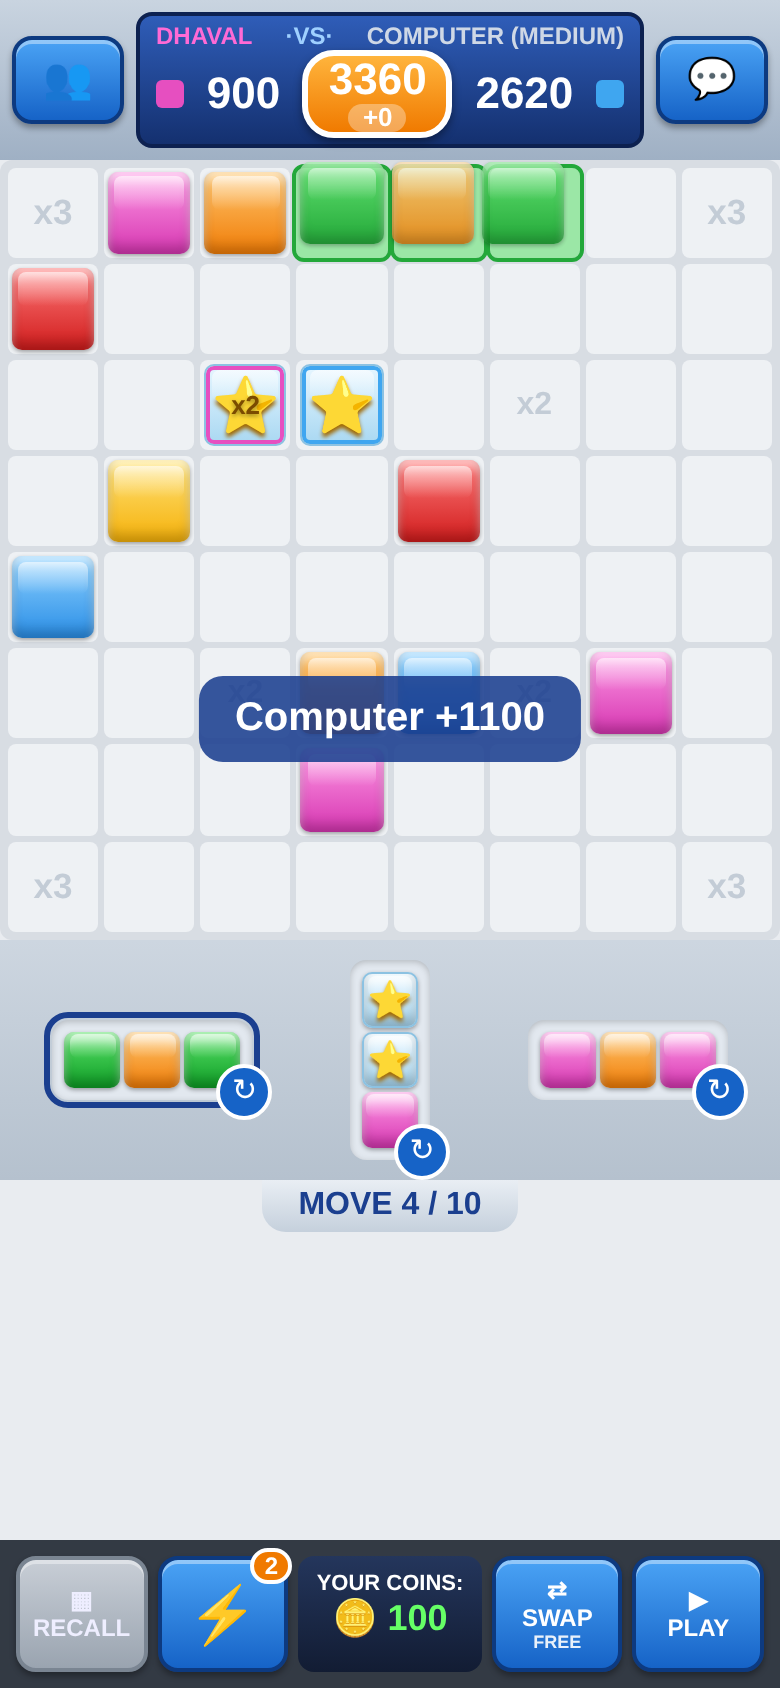
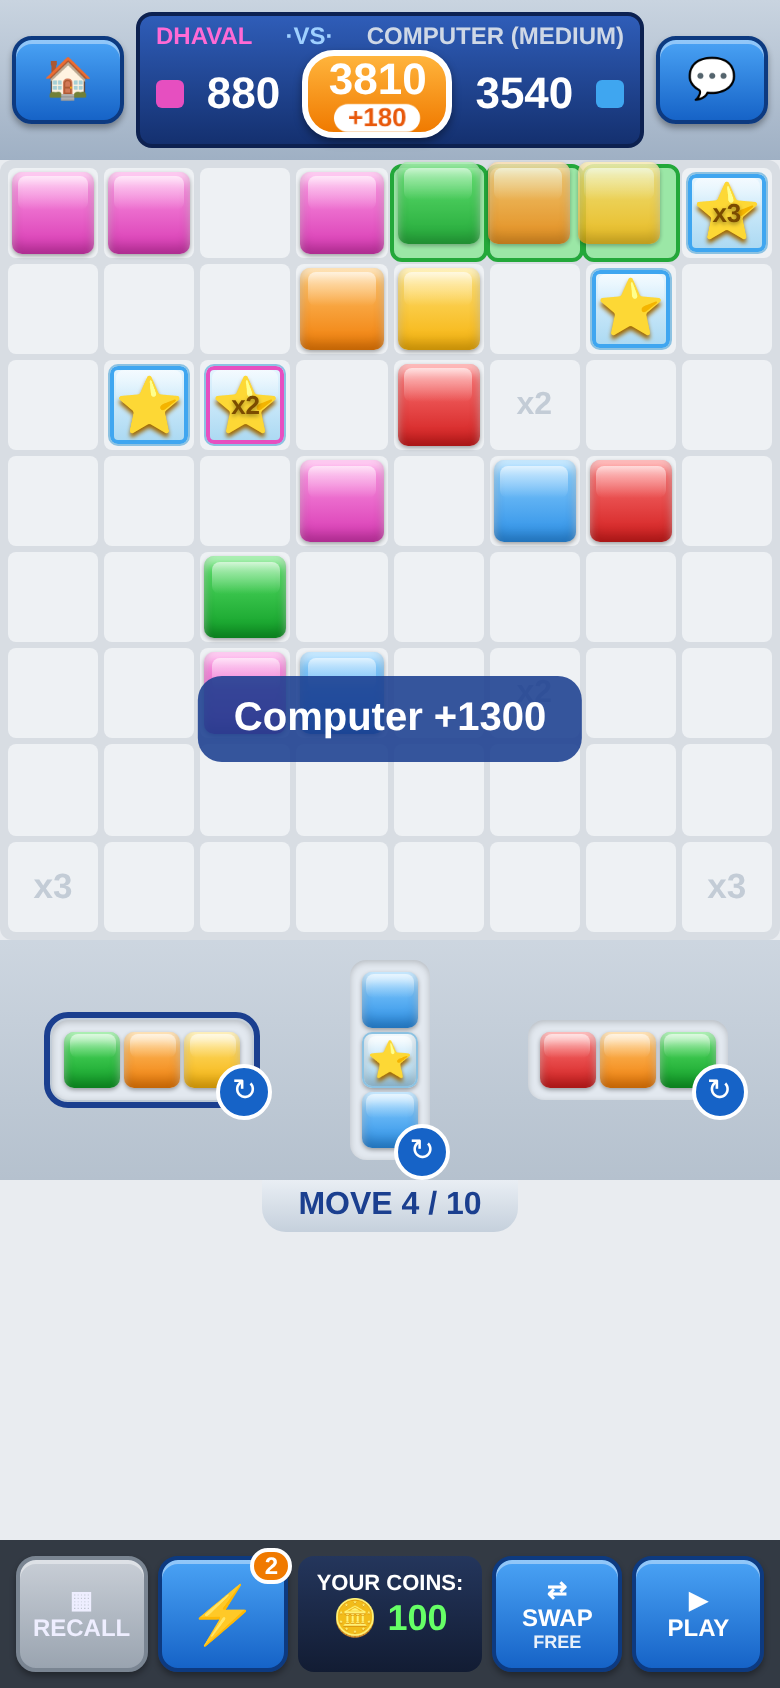
v18: fix hidden Resume button (was below the fold), autosave on every change, Resume at top, in-game home button

diff --git a/app.js b/app.js
@@ -34,7 +34,7 @@ const usedSet=s=>pieces.some(p=>p.s===s);
 function human(){return !g.over&&(g.mode==='pvp'||g.turn===meIdx())&&!busy;}
 function firstFree(){const r=g.racks[g.turn];for(let s=0;s<3;s++)if(r[3*s]&&!usedSet(s))return s;return null;}
 function tilesAt(s,r,c){return L.pieceTiles(g.racks[g.turn],s,g.orient[g.turn][s],r,c);}
-function render(){setTimeout(fit,0);const b=cur(),bd=$('board');bd.innerHTML='';
+function render(){setTimeout(fit,0);clearTimeout(render.sv);render.sv=setTimeout(autosave,50);const b=cur(),bd=$('board');bd.innerHTML='';
  const pvTiles=placed().concat(ghost&&ghost.ok?ghost.tiles:[]),pv=L.previewMove(g,pvTiles,boost),willSet=new Set(pv.pops.map(q=>q.r*8+q.c));
  const pe=$('prev');pe.textContent='This move: +'+pv.score+(boost&&pv.score?' (⚡x2)':'');const showPv=human()&&!aim&&(pvTiles.length||boost);pe.className='';const pp=$('potprev');pp.textContent=showPv?'+'+pv.score+(boost&&pv.score?' ⚡':''):'';pp.className=showPv?(pv.score?'hot':'zero'):'';
  const aimSet=new Set(aim&&aim.r!=null?L.blastCells(aim.type,aim.r,aim.c).map(([y,x])=>y*8+x):[]),fxSet=new Set(blastFx.map(([y,x])=>y*8+x));
@@ -123,8 +123,8 @@ function next(){sel=g.over?null:firstFree();render();if(g.over)return finish();a
  if(g.turn===1){busy=true;render();setTimeout(()=>{const m=L.aiPlan(g,profile.difficulty);if(m.swap&&L.swap(g)){busy=false;say('Computer swapped');next();return;}if(m.blast){boom(m.blast);say('Computer used '+(m.blast.type==='bomb'?'💣 Bomb':'✚ Cross Blast'));}pieces=[];for(let i=0;i<m.pl.length;i+=3)pieces.push({s:Math.floor(m.pl[i].slot/3),tiles:m.pl.slice(i,i+3)});render();
   setTimeout(()=>{const res=L.commit(g,placed(),m.boost);if(m.boost)say('Computer ⚡ x2');pop(res);markOwner(1);pieces=[];busy=false;say(res.score?'Computer +'+res.score:'Computer passes');next();},800);},500);}}
 function finish(){clearSave();const n=NAMES(),w=g.winner,me=meIdx();
- $('msg').innerHTML=(w<0?'Tie game!':n[w]+' wins the pot!')+'<br>'+g.scores[0]+' – '+g.scores[1]+'<br>'+(g.mode!=='pvp'&&w===me?'+10 coins! ':'')+'Coins: '+g.coins[me];profile.coins=g.coins[me];profile.games++;if(w===me)profile.wins++;if(isOn())Online.leave();saveProfile();showProfile();$('overlay').classList.add('show');}
-function start(mode){const nm=$('pname').value.trim();if(!nm){$('pname').focus();say('Enter your name first');return;}profile.name=nm;saveProfile();clearSave();g=L.newGame(mode);g.coins[0]=profile.coins;pieces=[];boost=false;busy=false;sel=firstFree();g._live=true;$('overlay').classList.remove('show');render();autosave();}
+ $('result').innerHTML=(w<0?'Tie game!':n[w]+' wins the pot!')+'<br>'+g.scores[0]+' – '+g.scores[1]+'<br>'+(g.mode!=='pvp'&&w===me?'+10 coins! ':'')+'Coins: '+g.coins[me];profile.coins=g.coins[me];profile.games++;if(w===me)profile.wins++;if(isOn())Online.leave();saveProfile();showProfile();$('overlay').classList.add('show');}
+function start(mode){$('result').innerHTML='';const nm=$('pname').value.trim();if(!nm){$('pname').focus();say('Enter your name first');return;}profile.name=nm;saveProfile();clearSave();g=L.newGame(mode);g.coins[0]=profile.coins;pieces=[];boost=false;busy=false;sel=firstFree();g._live=true;$('overlay').classList.remove('show');render();autosave();}
 // ---- online rooms ----
 function remoteAct(a){const p=g.turn;
  if(a.type==='commit'){const res=L.commit(g,a.pl,a.boost);pop(res);markOwner(p);say(NAMES()[p]+(res.score?' +'+res.score:' passes'));}
@@ -152,12 +152,12 @@ function autosave(){if(!g||!g.started&&g.mode!=='online'&&!g._live)return;if(g.m
 function clearSave(){localStorage.removeItem(SKEY);showResume();}
 function loadSave(){try{return JSON.parse(localStorage.getItem(SKEY));}catch(e){return null;}}
 function showResume(){const s=loadSave(),b=$('resumeBtn');if(!b)return;b.style.display=s&&s.g&&!s.g.over?'block':'none';
- if(s&&s.g)b.textContent='▶ Resume game ('+(s.g.mode==='ai'?'vs COMPUTER':'Pass & Play')+', move '+Math.min(10,s.g.moves[0]+1)+'/10)';}
+ if(s&&s.g)b.textContent=(g&&g._live&&!g.over?'▶ Continue game (':'▶ Resume game (')+(s.g.mode==='ai'?'vs COMPUTER':'Pass & Play')+', move '+Math.min(10,s.g.moves[0]+1)+'/10)';}
 $('resumeBtn').onclick=()=>{const s=loadSave();if(!s)return;g=Object.assign(s.g,{rng:Math.random,_live:true});if(s.difficulty)profile.difficulty=s.difficulty;
  pieces=(s.pieces||[]).filter(p=>p&&p.tiles);boost=false;busy=false;aim=null;$('overlay').classList.remove('show');sel=firstFree();
  if(g.mode==='ai'&&g.turn===1){pieces=[];next();}else render();say('Game resumed');};
 addEventListener('pagehide',autosave);document.addEventListener('visibilitychange',()=>{if(document.visibilityState==='hidden')autosave();});
-$('vsAI').onclick=()=>start('ai');$('vsP').onclick=()=>start('pvp');$('menuBtn').onclick=()=>$('overlay').classList.add('show');
+$('vsAI').onclick=()=>start('ai');$('vsP').onclick=()=>start('pvp');$('menuBtn').onclick=()=>{autosave();showResume();$('overlay').classList.add('show');};
 $('infoBtn').onclick=()=>say('Drag a 3-tile piece · tap it again or ↻ to rotate · placed pieces stay movable until PLAY · ⚡ = power-ups · place anywhere it fits');
 function fit(){const bd=$('board'),app=$('app');let used=0;[...app.children].forEach(c=>{if(c!==bd&&c.id!=='overlay')used+=c.getBoundingClientRect().height;});
  const st=getComputedStyle(app),avail=app.clientHeight-parseFloat(st.paddingTop)-used-4;bd.style.width=Math.max(120,Math.min(app.clientWidth,avail))+'px';}

diff --git a/index.html b/index.html
@@ -1,9 +1,9 @@
 <!DOCTYPE html><html><head><meta charset="utf-8"><meta name="viewport" content="width=device-width,initial-scale=1,viewport-fit=cover,user-scalable=no">
 <title>Star Tiles</title><link rel="manifest" href="manifest.json"><link rel="apple-touch-icon" href="icon-180.png">
 <meta name="apple-mobile-web-app-capable" content="yes"><meta name="mobile-web-app-capable" content="yes"><meta name="apple-mobile-web-app-status-bar-style" content="black"><meta name="theme-color" content="#1b3f8f">
-<link rel="stylesheet" href="style.css?v=17"></head><body>
+<link rel="stylesheet" href="style.css?v=18"></head><body>
 <div id="app">
-<header><button class="btn sq" id="menuBtn">👥</button>
+<header><button class="btn sq" id="menuBtn" aria-label="Menu">🏠</button>
 <div id="hud"><div class="names"><span id="n0" class="p0">DHAVAL P</span><span class="vs">·VS·</span><span id="n1">COMPUTER</span></div>
 <div class="scores"><i class="sw pink"></i><b id="s0">0</b><span id="pot"><span id="potn">1000</span><span id="potprev"></span></span><b id="s1">0</b><i class="sw blue"></i></div></div>
 <button class="btn sq" id="infoBtn">💬</button></header>
@@ -21,14 +21,14 @@
 <button class="btn big cancel" data-p="cancel">Cancel</button></div></div>
 <div id="tbar"><span id="tmsg">Tap a target square</span><button class="btn" id="tgo" disabled>BLAST!</button><button class="btn cancel" id="tno">Cancel</button></div>
 <div id="onl"><div class="card"><h2>🌐 Online room</h2><div id="onlcode" class="code">——</div><p id="onlmsg"></p><button class="btn big cancel" id="onlCancel">Cancel</button></div></div>
-<div id="overlay" class="show"><div class="card"><h1>⭐ Star Tiles</h1><p id="msg">It takes 3 to score: connect 3+ same-color tiles to score and clear them. Stars from your rack are wild and permanent. Drag your 3-tile pieces onto the board (tap again or ↻ to rotate). Place 0–3 pieces anywhere they fit on empty squares, then PLAY. ⚡ Power-ups (2 per game, 1 per move): Double Points, Bomb (3×3) or Cross Blast (row + column). Blasts clear everything in the area, even stars, but score nothing. Coins: start with 100, win = +10. Each game has 1 free swap and 2 free power-ups; extra swaps or power-ups cost 50 coins. 10 moves each — biggest score takes the pot!</p>
+<div id="overlay" class="show"><div class="card"><h1>⭐ Star Tiles</h1><button class="btn big resume" id="resumeBtn" style="display:none">▶ Resume game</button><p id="result"></p><details class="howto"><summary>How to play</summary><p id="msg">It takes 3 to score: connect 3+ same-color tiles to score and clear them. Stars from your rack are wild and permanent. Drag your 3-tile pieces onto the board (tap again or ↻ to rotate). Place 0–3 pieces anywhere they fit on empty squares, then PLAY. ⚡ Power-ups (2 per game, 1 per move): Double Points, Bomb (3×3) or Cross Blast (row + column). Blasts clear everything in the area, even stars, but score nothing. Coins: start with 100, win = +10. Each game has 1 free swap and 2 free power-ups; extra swaps or power-ups cost 50 coins. 10 moves each — biggest score takes the pot!</p></details>
 <label class="pname">Your name <input id="pname" maxlength="14" placeholder="Enter your name" autocomplete="off"></label>
 <div class="pstat" id="pstat"></div><button class="btn mute" id="muteBtn">🔊 Sound: ON</button>
 <div class="diff" id="diff"><button data-d="easy">EASY</button><button data-d="medium">MEDIUM</button><button data-d="hard">HARD</button><button data-d="expert">EXPERT</button></div>
-<button class="btn big resume" id="resumeBtn" style="display:none">▶ Resume game</button><button class="btn big" id="vsAI">Play vs COMPUTER</button><button class="btn big" id="vsP">Pass &amp; Play (2 players)</button>
+<button class="btn big" id="vsAI">Play vs COMPUTER</button><button class="btn big" id="vsP">Pass &amp; Play (2 players)</button>
 <div class="online"><button class="btn big" id="hostBtn">🌐 Host online game</button>
-<div class="joinrow"><input id="joinCode" maxlength="6" placeholder="ROOM CODE" autocapitalize="characters" autocomplete="off"><button class="btn" id="joinBtn">Join</button></div></div><div id="ver">v17</div></div></div>
-</div><script src="logic.js?v=17"></script><script src="online.js?v=17"></script><script src="app.js?v=17"></script>
+<div class="joinrow"><input id="joinCode" maxlength="6" placeholder="ROOM CODE" autocapitalize="characters" autocomplete="off"><button class="btn" id="joinBtn">Join</button></div></div><div id="ver">v18</div></div></div>
+</div><script src="logic.js?v=18"></script><script src="online.js?v=18"></script><script src="app.js?v=18"></script>
 <script>
 if('serviceWorker'in navigator){let reloaded=false;const had=!!navigator.serviceWorker.controller;
  navigator.serviceWorker.addEventListener('controllerchange',()=>{if(reloaded||!had)return;reloaded=true;try{window.autosave&&autosave();}catch(e){}location.reload();});

diff --git a/test.js b/test.js
@@ -102,3 +102,6 @@ function play(level,seed){let s=seed;const r=()=>(s=(s*16807)%2147483647)/214748
 const avg={};let worstHard=0;for(const lv of ['easy','medium','hard']){let t=0;for(let i=1;i<=4;i++){const p=play(lv,i*7919);t+=p.avg;if(lv==='hard')worstHard=Math.max(worstHard,p.worst);}avg[lv]=t/4;}
 a.ok(avg.hard>=avg.medium&&avg.medium>=avg.easy,JSON.stringify(avg));a.ok(worstHard<1500,'hard too slow '+worstHard);
 console.log('ok',g.scores,g.winner,(Date.now()-t0)+'ms',JSON.stringify(avg),'hard worst move',worstHard+'ms');
+// UI scripts must at least parse (catches broken edits before shipping)
+for(const f of ['app.js','online.js','sw.js'])new (require('vm').Script)(require('fs').readFileSync(__dirname+'/'+f,'utf8'),{filename:f});
+console.log('ui scripts parse ok');

diff --git a/sw.js b/sw.js
@@ -1,4 +1,4 @@
-const V='v17',C='star-tiles-'+V,F=['./','index.html','style.css?v=17','app.js?v=17','logic.js?v=17','online.js?v=17','manifest.json','icon-180.png','icon-192.png','icon-512.png'];
+const V='v18',C='star-tiles-'+V,F=['./','index.html','style.css?v=18','app.js?v=18','logic.js?v=18','online.js?v=18','manifest.json','icon-180.png','icon-192.png','icon-512.png'];
 self.addEventListener('install',e=>{self.skipWaiting();e.waitUntil(caches.open(C).then(c=>c.addAll(F)).catch(()=>{}));});
 self.addEventListener('activate',e=>e.waitUntil(caches.keys().then(k=>Promise.all(k.filter(x=>x!==C).map(x=>caches.delete(x)))).then(()=>self.clients.claim())));
 // network-first for pages/code; cache only as offline fallback

diff --git a/style.css b/style.css
@@ -128,3 +128,7 @@ html,body,button,.set,.rot,#rack{touch-action:manipulation}
 /* v17 */
 .rotb{display:none!important}
 .cell.pshake .tile{animation:shake .35s}@keyframes shake{20%,60%{transform:translateX(-5px)}40%,80%{transform:translateX(5px)}}
+/* v18 */
+.card .resume{margin:4px 0 10px;font-size:18px;padding:14px;box-shadow:0 0 0 3px #b8f5c0,0 3px 8px #0004}
+.howto{text-align:left;margin:4px 0 8px;font-size:13px;color:#333}.howto summary{font-weight:900;color:#1b3f8f;cursor:pointer}
+#result{font-weight:900;color:#1b3f8f;margin:4px 0}#result:empty{display:none}
